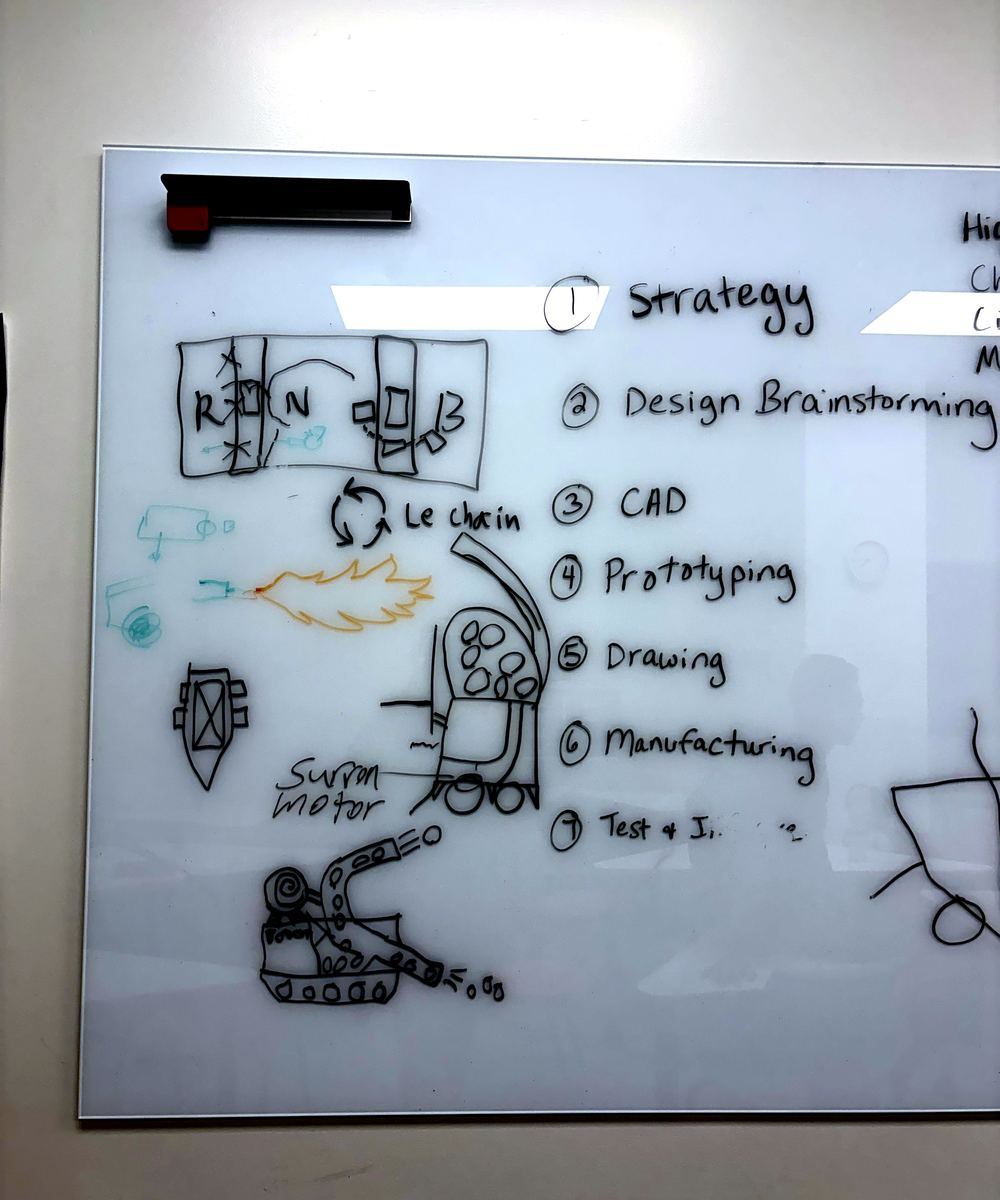
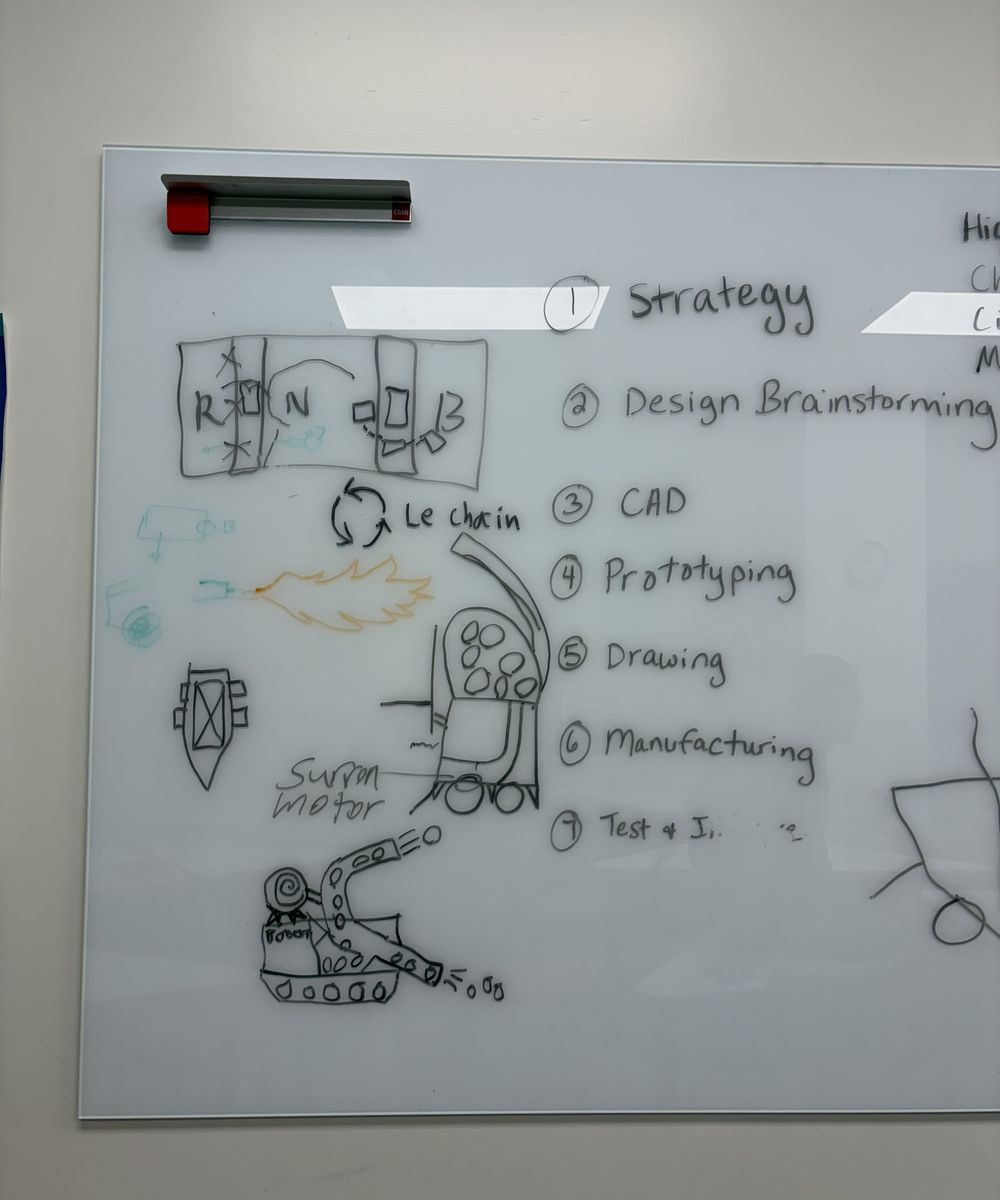
Preview: natural turtle crop and whiteboard photo; keys and status as plain text

diff --git a/css/pages.css b/css/pages.css
@@ -203,12 +203,8 @@ a.marquee__item:hover { color: var(--link); }
 .outreach-item__meta { display: flex; flex-wrap: wrap; align-items: center; gap: var(--s-2) var(--s-4); color: var(--muted); font-size: var(--fs-small); }
 .outreach-item__meta span { display: inline-flex; align-items: center; gap: var(--s-1); }
 .outreach-item__meta svg { width: 1em; height: 1em; }
-.status {
-  font-size: 0.8125rem; font-weight: 700;
-  padding: 1px 7px; border-radius: 2px;
-  border: 1px solid currentColor; color: var(--text-2);
-}
-.status--done { background: var(--green-500); border-color: var(--green-500); color: var(--navy-900); }
+.status { font-weight: 700; color: var(--text-2); }
+.status--done { color: var(--link); }
 .outreach-item h2 { font-size: clamp(1.5rem, 1.2rem + 1.2vw, 2.25rem); margin-top: var(--s-3); }
 .outreach-item p { margin-top: var(--s-3); color: var(--text-2); max-width: 62ch; }
 .outreach-photos { display: grid; gap: var(--s-3); grid-template-columns: repeat(2, 1fr); }
@@ -272,7 +268,7 @@ a.marquee__item:hover { color: var(--link); }
 /* ---------- Team: why "Turtle Ctrl" ---------- */
 .name-story { display: grid; gap: var(--s-6); align-items: center; }
 .name-story__sketch { margin: 0; max-width: 440px; }
-.name-story__sketch .photo { --ratio: 1000 / 828; background: #FFFFFF; }
+.name-story__sketch .photo { --ratio: 4 / 3; }
 .name-story__copy .draft p + p,
 .name-story__copy > p + p { margin-top: var(--s-3); }
 .name-story__copy h2 { margin-bottom: var(--s-5); }
@@ -319,7 +315,10 @@ a.marquee__item:hover { color: var(--link); }
   list-style: none; margin: var(--s-5) 0 0; padding: 0;
   display: flex; flex-wrap: wrap; gap: var(--s-3);
 }
-.keys .key { font-family: var(--font-sans); font-size: 0.9375rem; font-weight: 600; padding: 0.45em 0.75em; box-shadow: none; border: 1px solid var(--line-strong); border-radius: var(--r-press); background: transparent; color: var(--text); }
+/* Plain text list, so nothing here looks clickable */
+.keys { gap: 0 0.4em; }
+.keys .key { display: inline; font-family: var(--font-sans); font-size: 1.0625rem; font-weight: 700; padding: 0; border: 0; border-radius: 0; box-shadow: none; background: none; color: var(--text); }
+.keys .key:not(:last-child)::after { content: ","; font-weight: 400; }
 
 /* ---------- Team: parent FAQ ---------- */
 .faq { margin-top: var(--s-5); border-top: 1px solid var(--line); }

diff --git a/team.html b/team.html
@@ -23,9 +23,9 @@
   <link rel="icon" href="images/favicon.svg" type="image/svg+xml">
   <link rel="apple-touch-icon" href="images/apple-touch-icon.png">
   <link rel="preload" href="fonts/geist-latin-wght-normal.woff2" as="font" type="font/woff2" crossorigin>
-  <link rel="stylesheet" href="css/styles.css?v=20261018b">
-  <link rel="stylesheet" href="css/pages.css?v=20261018b">
-  <link rel="stylesheet" href="css/minibots.css?v=20261018b">
+  <link rel="stylesheet" href="css/styles.css?v=20261018c">
+  <link rel="stylesheet" href="css/pages.css?v=20261018c">
+  <link rel="stylesheet" href="css/minibots.css?v=20261018c">
 </head>
 <body>
   <a class="skip-link" href="#main">Skip to content</a>
@@ -88,7 +88,7 @@
     <section class="section" aria-labelledby="name-title">
       <div class="container name-story">
         <figure class="name-story__sketch">
-          <div class="photo"><img src="images/photos/turtle-sketch.jpg" alt="A hand-drawn turtle robot whose shell is a battery labeled Ctrl" width="1000" height="828" loading="lazy" decoding="async"></div>
+          <div class="photo"><img src="images/photos/turtle-sketch.jpg" alt="A hand-drawn turtle robot whose shell is a battery labeled Ctrl" width="1200" height="900" loading="lazy" decoding="async"></div>
           <figcaption class="photo-caption">An early Turtle Ctrl sketch from our team.</figcaption>
         </figure>
         <div class="name-story__copy">
@@ -230,6 +230,6 @@
   </footer>
 
   <script src="content.js"></script>
-  <script src="js/site.js?v=20261018b"></script>
+  <script src="js/site.js?v=20261018c"></script>
 </body>
 </html>

diff --git a/index.html b/index.html
@@ -23,11 +23,11 @@
   <link rel="icon" href="images/favicon.svg" type="image/svg+xml">
   <link rel="apple-touch-icon" href="images/apple-touch-icon.png">
   <link rel="preload" href="fonts/geist-latin-wght-normal.woff2" as="font" type="font/woff2" crossorigin>
-  <link rel="stylesheet" href="css/styles.css?v=20261018b">
-  <link rel="stylesheet" href="css/pages.css?v=20261018b">
-  <link rel="stylesheet" href="css/minibots.css?v=20261018b">
-  <link rel="stylesheet" href="css/kitbot.css?v=20261018b">
-  <link rel="stylesheet" href="css/shooter.css?v=20261018b">
+  <link rel="stylesheet" href="css/styles.css?v=20261018c">
+  <link rel="stylesheet" href="css/pages.css?v=20261018c">
+  <link rel="stylesheet" href="css/minibots.css?v=20261018c">
+  <link rel="stylesheet" href="css/kitbot.css?v=20261018c">
+  <link rel="stylesheet" href="css/shooter.css?v=20261018c">
   <script type="application/ld+json">
   {
     "@context": "https://schema.org",
@@ -242,8 +242,8 @@
   </footer>
 
   <script src="content.js"></script>
-  <script src="js/site.js?v=20261018b"></script>
-  <script src="js/kitbot.js?v=20261018b"></script>
-  <script src="js/shooter.js?v=20261018b"></script>
+  <script src="js/site.js?v=20261018c"></script>
+  <script src="js/kitbot.js?v=20261018c"></script>
+  <script src="js/shooter.js?v=20261018c"></script>
 </body>
 </html>

diff --git a/robot.html b/robot.html
@@ -23,9 +23,9 @@
   <link rel="icon" href="images/favicon.svg" type="image/svg+xml">
   <link rel="apple-touch-icon" href="images/apple-touch-icon.png">
   <link rel="preload" href="fonts/geist-latin-wght-normal.woff2" as="font" type="font/woff2" crossorigin>
-  <link rel="stylesheet" href="css/styles.css?v=20261018b">
-  <link rel="stylesheet" href="css/pages.css?v=20261018b">
-  <link rel="stylesheet" href="css/minibots.css?v=20261018b">
+  <link rel="stylesheet" href="css/styles.css?v=20261018c">
+  <link rel="stylesheet" href="css/pages.css?v=20261018c">
+  <link rel="stylesheet" href="css/minibots.css?v=20261018c">
 </head>
 <body>
   <a class="skip-link" href="#main">Skip to content</a>
@@ -218,7 +218,7 @@
   </footer>
 
   <script src="content.js"></script>
-  <script src="js/site.js?v=20261018b"></script>
-  <script src="js/minibots.js?v=20261018b"></script>
+  <script src="js/site.js?v=20261018c"></script>
+  <script src="js/minibots.js?v=20261018c"></script>
 </body>
 </html>

diff --git a/outreach.html b/outreach.html
@@ -23,9 +23,9 @@
   <link rel="icon" href="images/favicon.svg" type="image/svg+xml">
   <link rel="apple-touch-icon" href="images/apple-touch-icon.png">
   <link rel="preload" href="fonts/geist-latin-wght-normal.woff2" as="font" type="font/woff2" crossorigin>
-  <link rel="stylesheet" href="css/styles.css?v=20261018b">
-  <link rel="stylesheet" href="css/pages.css?v=20261018b">
-  <link rel="stylesheet" href="css/minibots.css?v=20261018b">
+  <link rel="stylesheet" href="css/styles.css?v=20261018c">
+  <link rel="stylesheet" href="css/pages.css?v=20261018c">
+  <link rel="stylesheet" href="css/minibots.css?v=20261018c">
 </head>
 <body>
   <a class="skip-link" href="#main">Skip to content</a>
@@ -115,6 +115,6 @@
   </footer>
 
   <script src="content.js"></script>
-  <script src="js/site.js?v=20261018b"></script>
+  <script src="js/site.js?v=20261018c"></script>
 </body>
 </html>

diff --git a/sponsors.html b/sponsors.html
@@ -23,9 +23,9 @@
   <link rel="icon" href="images/favicon.svg" type="image/svg+xml">
   <link rel="apple-touch-icon" href="images/apple-touch-icon.png">
   <link rel="preload" href="fonts/geist-latin-wght-normal.woff2" as="font" type="font/woff2" crossorigin>
-  <link rel="stylesheet" href="css/styles.css?v=20261018b">
-  <link rel="stylesheet" href="css/pages.css?v=20261018b">
-  <link rel="stylesheet" href="css/minibots.css?v=20261018b">
+  <link rel="stylesheet" href="css/styles.css?v=20261018c">
+  <link rel="stylesheet" href="css/pages.css?v=20261018c">
+  <link rel="stylesheet" href="css/minibots.css?v=20261018c">
 </head>
 <body>
   <a class="skip-link" href="#main">Skip to content</a>
@@ -160,6 +160,6 @@
   </footer>
 
   <script src="content.js"></script>
-  <script src="js/site.js?v=20261018b"></script>
+  <script src="js/site.js?v=20261018c"></script>
 </body>
 </html>
